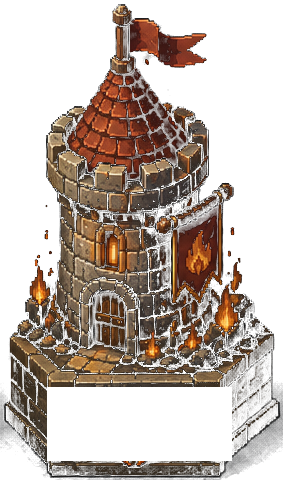
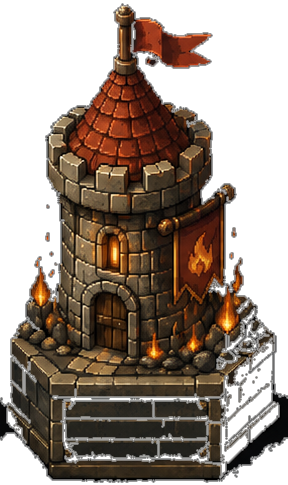
Replace all 9 elemental tower variants with user-regenerated collection
New source sheet (assets/source/towers/elemental_tower_collection.png) has
the same 5x2 grid/order as the original but with blank pedestal plaques -
no text-erasure needed this time. Re-sliced fire/ice/lightning/poison/
earth/water/wind/shadow/holy in place (same filenames), including
tower_elem_ice.png which is live-wired to the "elemental" archetype slot.

The alpha-cut threshold that worked for the previous sheet badly overcut
this one - holes appeared in the pedestal/lower body because this sheet's
ambient-occlusion shadow gradient sits much closer to the background color
than the original's did. Retuned via spot-checking against a contrasting
backdrop (not just trusting the same settings): dist<16 gave clean solid
interiors with an acceptable thin edge fringe; dist<22 (tried to clean that
fringe further) made it worse by eating into interior brick mortar lines.
Full findings logged in design/art/asset-generation-prompts.md for reuse.

Live-verified via Godot MCP: "elemental" still resolves to tower_elem_ice.png
with zero errors, screenshot confirms clean render, no holes/bleed.

diff --git a/design/art/asset-generation-prompts.md b/design/art/asset-generation-prompts.md
@@ -4,6 +4,13 @@ Reference log of prompts used with external image generators for game art,
 kept so a prompt can be reused, tweaked, or regenerated later without
 reconstructing the art-bible constraints from scratch each time.
 
+> **Batch request, not yet generated**: `assets/art-generation-requests-2026-08-02.md`
+> is a standalone, upload-ready prompt batch (7 monsters + 5 Menagerie
+> companion creatures — the two content sets with zero art today). Kept
+> separate from this log since it's meant to be handed to ChatGPT directly;
+> once assets come back and get sliced, fold the outcome notes back into
+> this file the same way Rally Banner's entry below does.
+
 ---
 
 ## Rally Banner (Support archetype tower)
@@ -65,3 +72,37 @@ beyond the pedestal base.
 - "plain dark background for easy cutout" → matches this project's existing
   alpha-cut pipeline (see `tower_ranged_base.png`, `tower_physical_base.png`,
   `tower_elem_*.png` — all sliced from generated sheets the same way).
+
+---
+
+## Elemental Tower Collection (regeneration — replaces the 9 tower_elem_*.png)
+
+**Date:** 2026-08-02
+**Target:** all 9 unused/wired elemental tower variants
+(`tower_elem_{fire,ice,lightning,poison,earth,water,wind,shadow,holy}.png`),
+including the one wired to the `"elemental"` archetype slot (`tower_elem_ice.png`).
+**Source:** user-supplied `assets/source/towers/elemental_tower_collection.png`
+(no prompt authored by Claude for this one — user generated and dropped it in
+directly). Same 5×2 grid layout/order as the original `updated_tower_set.png`
+this replaces, but with blank (unlabeled) pedestal plaques — no text-erasure
+step needed this time.
+**Status:** Sliced and wired (2026-08-02), replacing the originals in place
+(same filenames). Live-verified via Godot MCP — `"elemental"` still resolves
+to `tower_elem_ice.png` with zero errors, screenshot confirms clean render.
+
+**Slicing note — this sheet needed a different alpha-cut threshold than the
+original tower sheet.** The first attempt reused the connected-component
+flood-fill method at the same distance threshold that worked for
+`tower_physical_base.png`/the button sheet (`dist < 30-32`), and it badly
+overcut: large holes appeared in the pedestal base and lower tower body
+because this sheet's ambient-occlusion shadow gradient sits much closer to
+the background color (`~18,19,21`) than the equivalent areas in the original
+sheet did — some shadowed stone pixels were within ~10 RGB units of pure
+background. Tightening to `dist < 16` fixed it (solid interiors, thin
+acceptable edge fringe); an intermediate attempt at `dist < 22` was tried to
+clean up that edge fringe further and made it *worse* — it started eating
+into the brick mortar lines throughout the tower body, not just the outer
+silhouette. **Lesson: always spot-check a low-contrast case (Shadow tower,
+or any dark VFX variant) against a bright contrasting backdrop before
+committing a batch slice — the right threshold isn't transferable between
+generations even when the visual style looks similar.**
